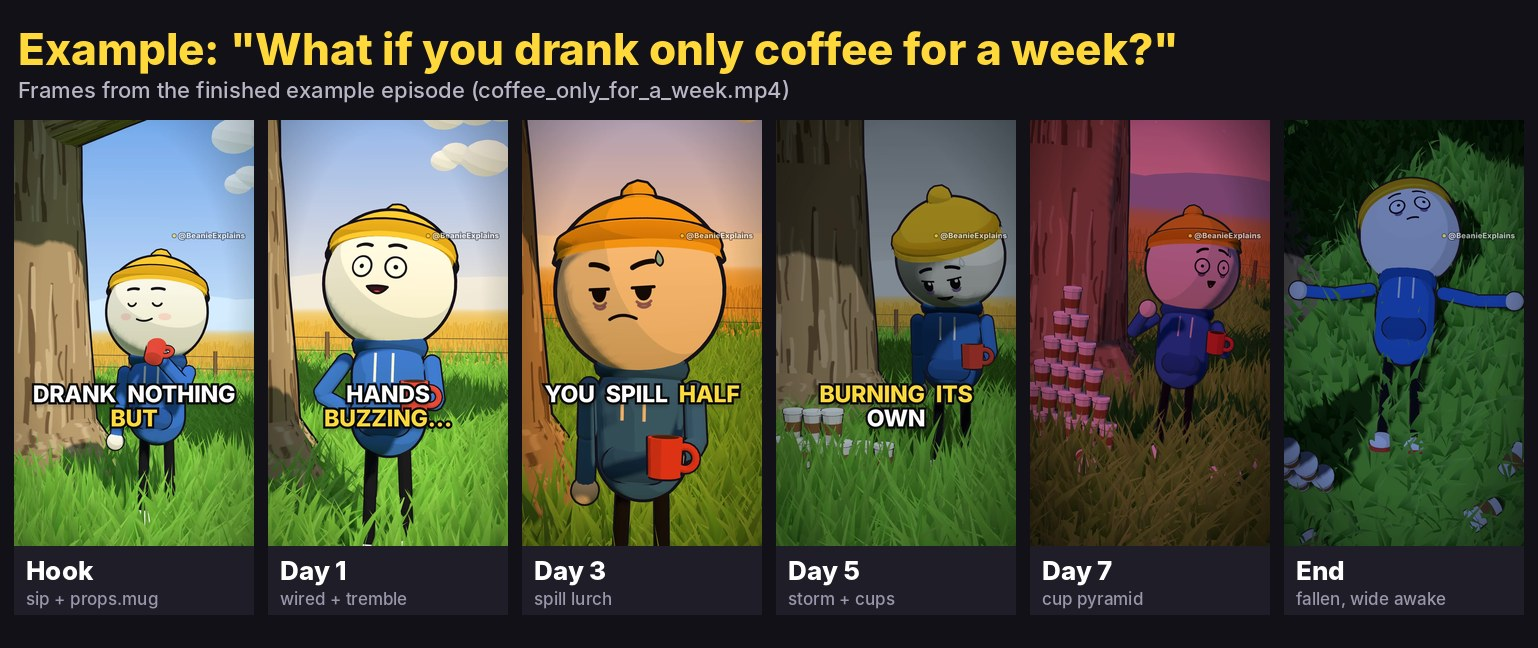
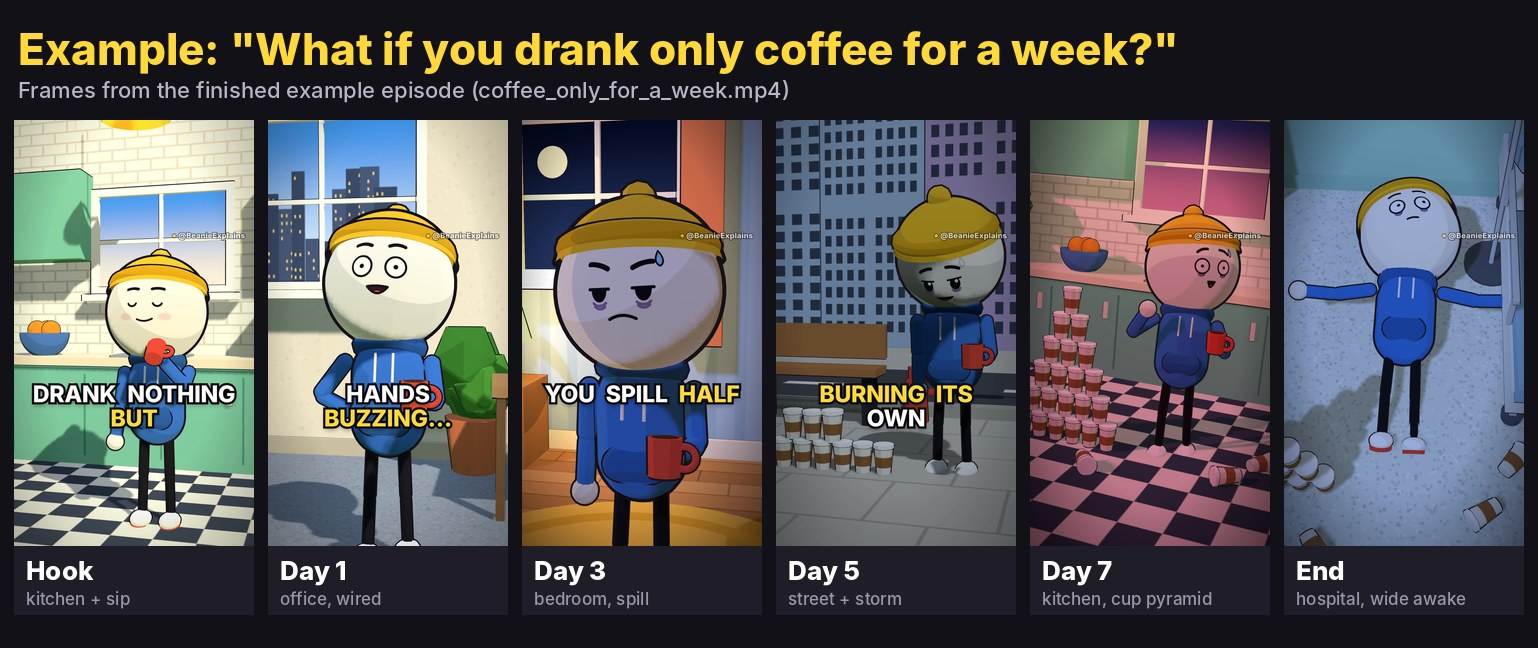
Refresh coffee episode gallery with the multi-location cut
Frames and preview GIF now come from the re-render that moves through
kitchen, office, bedroom, street and hospital; tile labels name the set.

Claude-Session: https://claude.ai/code/session_01F6C3V3dZVQ1Q8Jci7iErVt

diff --git a/docs/gallery/build_gallery.py b/docs/gallery/build_gallery.py
@@ -227,8 +227,8 @@ if len(sys.argv) > 1:
                   gif='preview.gif', gif_span=(8.0, 10.5))
 if len(sys.argv) > 2:
     episode_sheet(sys.argv[2], 'episode-coffee.jpg', 'Example: "What if you drank only coffee for a week?"',
-                  [(1.6, 'Hook', 'sip + props.mug'), (8.6, 'Day 1', 'wired + tremble'), (18.4, 'Day 3', 'spill lurch'),
-                   (23.7, 'Day 5', 'storm + cups'), (31.6, 'Day 7', 'cup pyramid'), (40.5, 'End', 'fallen, wide awake')],
+                  [(1.6, 'Hook', 'kitchen + sip'), (8.6, 'Day 1', 'office, wired'), (18.4, 'Day 3', 'bedroom, spill'),
+                   (23.7, 'Day 5', 'street + storm'), (31.6, 'Day 7', 'kitchen, cup pyramid'), (40.5, 'End', 'hospital, wide awake')],
                   gif='preview-coffee.gif', gif_span=(29.5, 9.0))
 
 # the skill ships the sheets Claude should look at while choreographing
